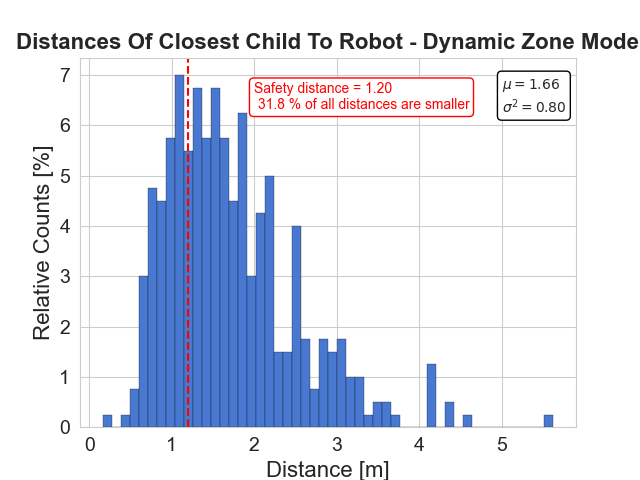
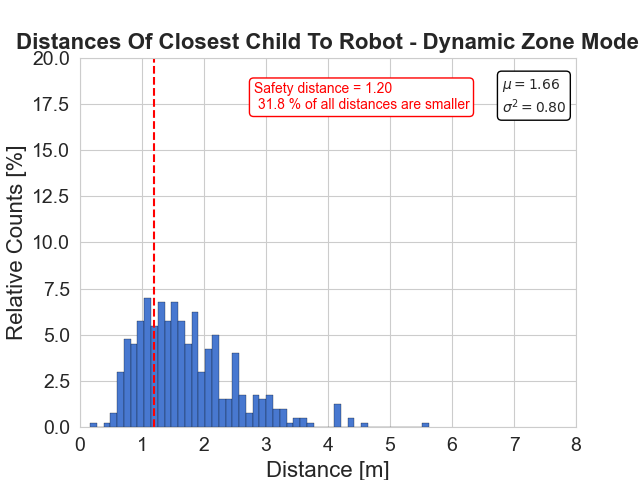
adjusted quantitative plots

diff --git a/arena_navigation/arena_local_planner/evaluation/scripts/semantic_plots/plotforcomparison.py b/arena_navigation/arena_local_planner/evaluation/scripts/semantic_plots/plotforcomparison.py
@@ -188,6 +188,8 @@ for j in range(len_file):
         plt.title('Distances Of Closest '+ dic_h[i] +' To Robot - '+mode[j]+' Mode', fontsize=16, fontweight='bold')
         plt.xlabel('Distance [m]', fontsize=16)
         plt.ylabel('Relative Counts [%]', fontsize=16)
+        plt.xlim([0, 8])
+        plt.ylim([0, 20])
         plt.xticks(fontsize=14)
         plt.yticks(fontsize=14)
         plt.savefig(path+dic_h[i]+'_distance_hist_'+mode[j])
